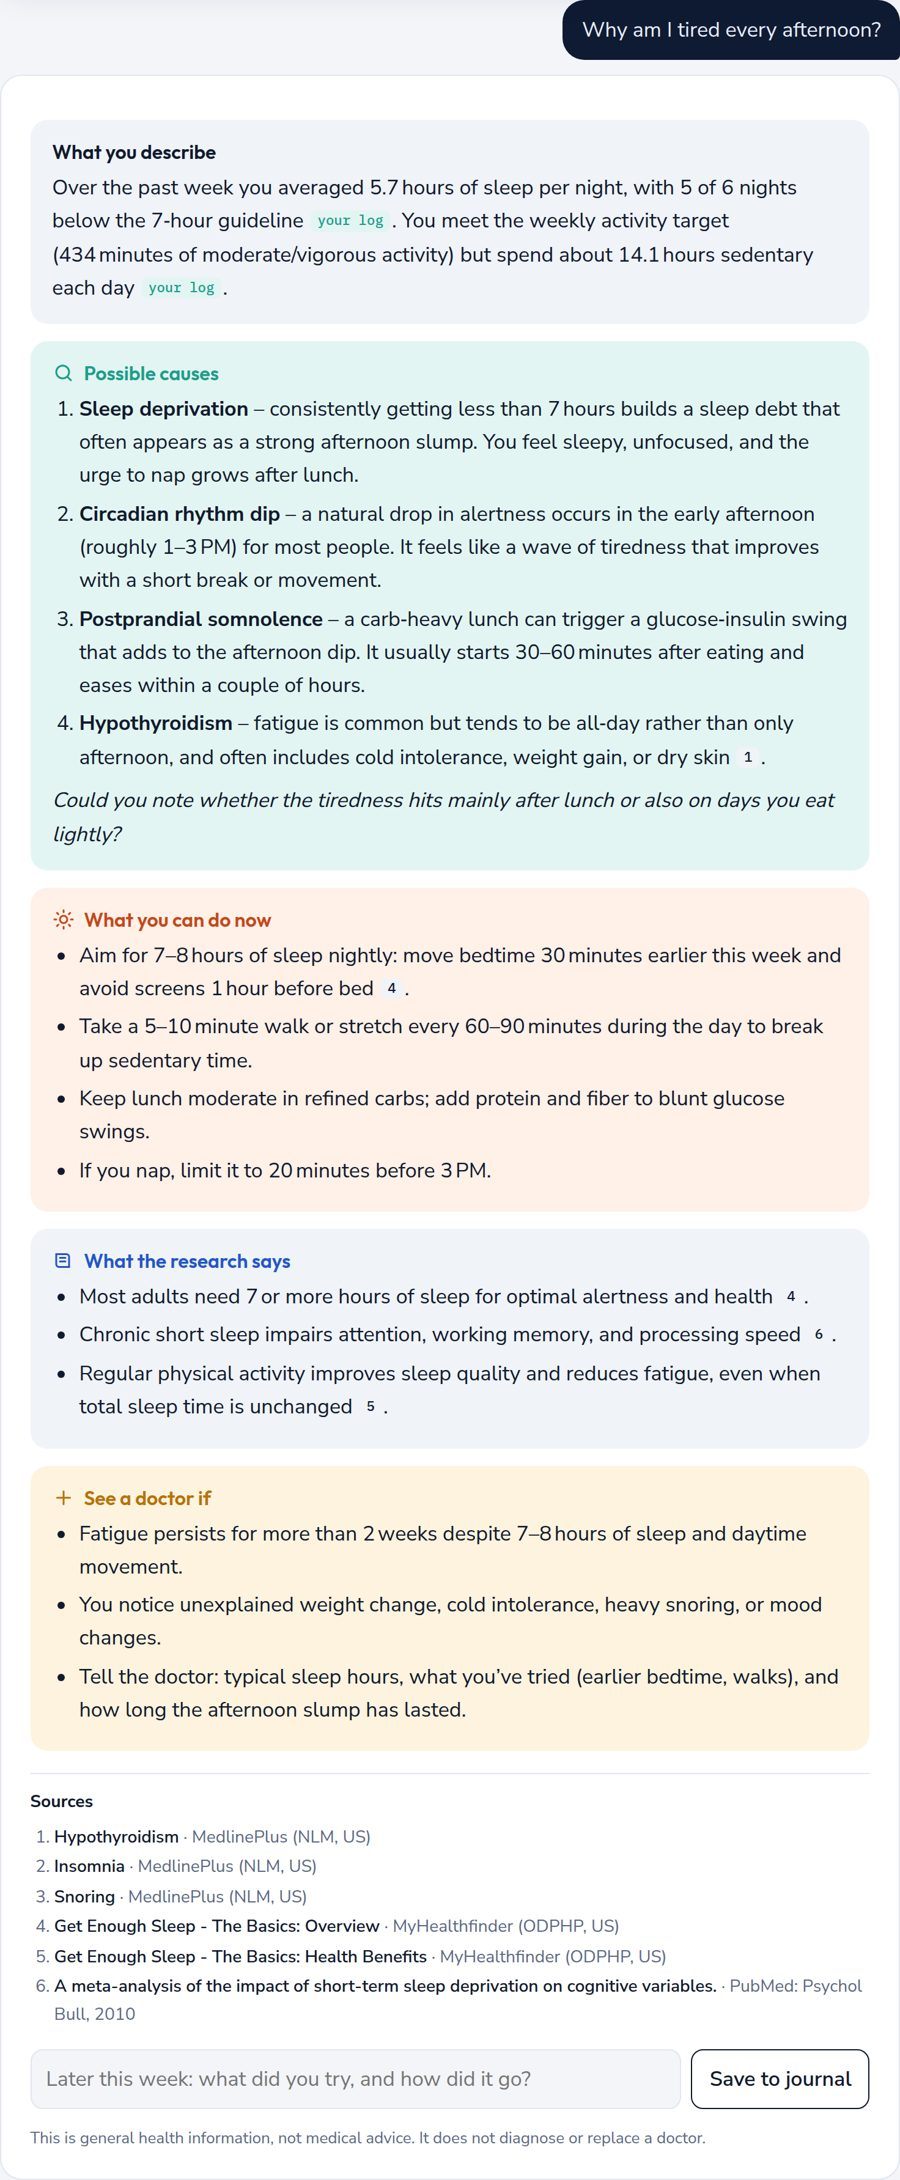
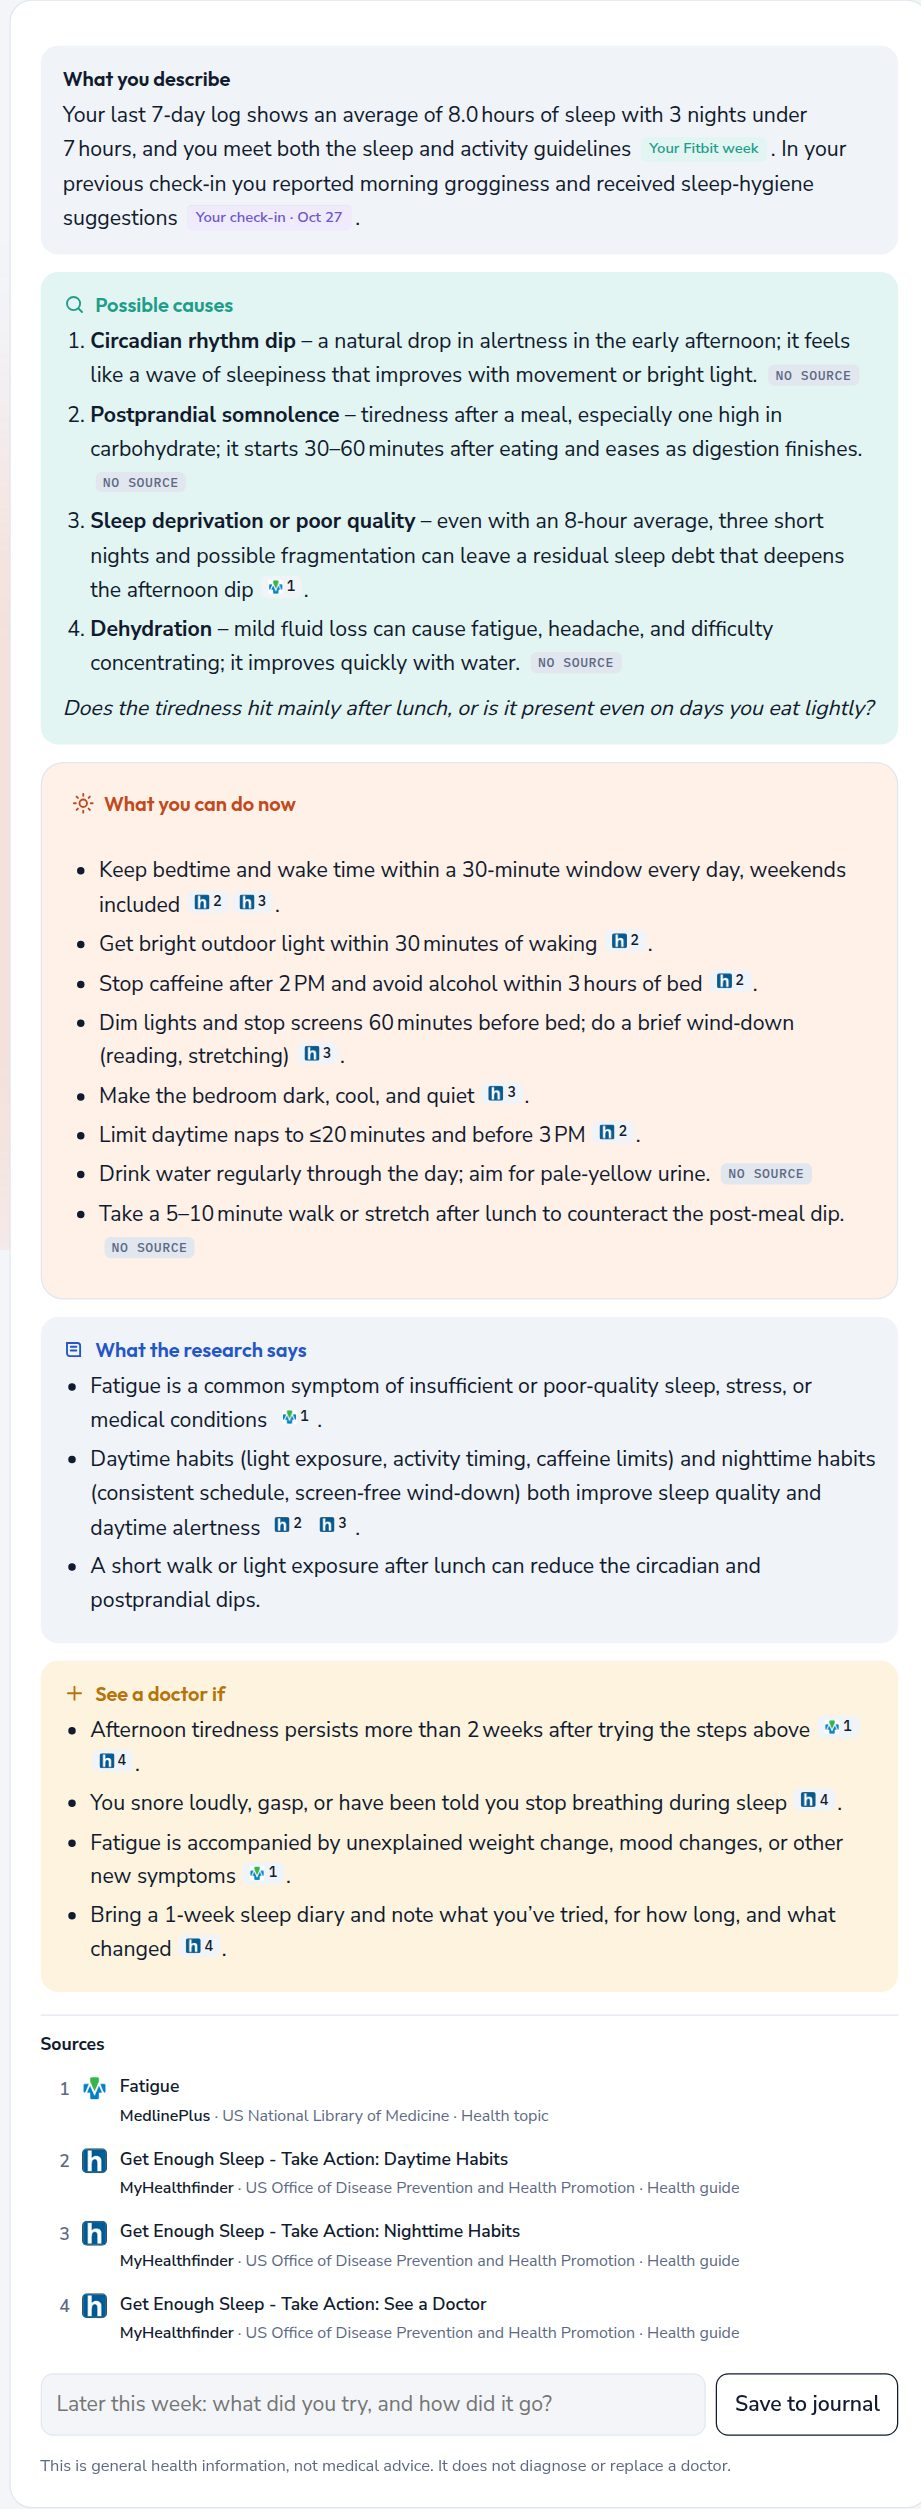
Plain wording in Show your work; project page: new screenshots, line check step, deployed

Changed region(s): [[0.0, 0.0, 1.0, 0.9982], [0.9022, 0.5615, 0.9333, 0.5927]]

diff --git a/web/index.html b/web/index.html
@@ -331,7 +331,7 @@ footer{border-top:1px solid var(--line);color:var(--muted);font-size:.85rem;padd
   <div class="wrap week" data-page="checkin">
     <div>
       <h1 class="hello" id="hello">Here's your week.</h1>
-      <p class="sub" id="range">Loading your log…</p>
+      <p class="sub" id="range">Loading your week…</p>
       <div class="tiles" id="tiles"></div>
     </div>
     <div class="chart">
@@ -373,10 +373,10 @@ footer{border-top:1px solid var(--line);color:var(--muted);font-size:.85rem;padd
       <ol class="steps" id="steps">
         <li class="step wait" tabindex="0" role="button" aria-expanded="false"><span class="dot"></span><div><span class="by">Safety</span><b>Danger-sign check</b><small>Chest pain, stroke signs or self-harm skip advice and go straight to emergency help. This check is plain rules, not AI, so it runs first and can't be talked out of it.</small></div></li>
         <li class="step wait" tabindex="0" role="button" aria-expanded="false"><span class="dot"></span><div><span class="by l">Nightshift</span><b>List possible causes</b><small>A small Nemotron model turns your words into medical terms to look up, and spots any remedy or product you name. These are search terms, not a diagnosis.</small></div></li>
-        <li class="step wait" tabindex="0" role="button" aria-expanded="false"><span class="dot"></span><div><span class="by z">Zetaris</span><b>Search the health library and your log</b><small>SQL through the Zetaris Lightning API finds the closest of 1,016 MedlinePlus topics, plus herb and supplement facts from NCCIH. If the question is about sleep or activity, it also reads your last 7 days of Fitbit data.</small></div></li>
+        <li class="step wait" tabindex="0" role="button" aria-expanded="false"><span class="dot"></span><div><span class="by z">Zetaris</span><b>Search trusted health pages and your Fitbit week</b><small>SQL through the Zetaris Lightning API finds the closest of 1,016 MedlinePlus topics, plus herb and supplement facts from NCCIH. If the question is about sleep or activity, it also reads your last 7 days of Fitbit data.</small></div></li>
         <li class="step wait" tabindex="0" role="button" aria-expanded="false"><span class="dot"></span><div><span class="by p">PubMed</span><b>Find the research</b><small>PubMed is searched live for a recent systematic review on each possible cause. Case reports are skipped, and papers far off your question are dropped.</small></div></li>
         <li class="step wait" tabindex="0" role="button" aria-expanded="false"><span class="dot"></span><div><span class="by m">Meterless H-MEM</span><b>Recall past check-ins</b><small>Meterless H-MEM recalls your earlier check-ins and notes that match this question by meaning. Each memory has a source, a confidence score and the time it was learned.</small></div></li>
-        <li class="step wait" tabindex="0" role="button" aria-expanded="false"><span class="dot"></span><div><span class="by l">Nightshift</span><b>Write the answer</b><small>NVIDIA Nemotron, served through Meterless Nightshift, writes the answer from the evidence above only. Every cause and step must cite a source, your log or a memory; an answer that cites nothing is written again.</small></div></li>
+        <li class="step wait" tabindex="0" role="button" aria-expanded="false"><span class="dot"></span><div><span class="by l">Nightshift</span><b>Write the answer</b><small>NVIDIA Nemotron, served through Meterless Nightshift, writes the answer from the evidence above only. Every cause and step must cite a trusted source; your Fitbit week and earlier check-ins show what applies to you. An answer that cites nothing is written again.</small></div></li>
       </ol>
     </section>
   </aside>
@@ -581,7 +581,7 @@ function renderJournal() {
       ${sec("Your answers", e.answers.length ? `<dl>${e.answers.map(a => `${a.ask ? `<dt>${esc(a.ask)}</dt>` : ""}<dd>${esc(a.reply)}</dd>`).join("")}</dl>` : "")}
       ${sec("Possible causes it checked", e.considered.length ? `<div class="tags">${e.considered.map(c => `<span>${esc(c)}</span>`).join("")}</div>` : "")}
       ${sec("What it suggested", e.steps.length ? `<ul class="jsteps">${e.steps.map(st => `<li>${esc(st)}</li>`).join("")}</ul>` : "")}
-      ${e.data ? `<p class="jdata">Your log at the time: ${esc(e.data)}</p>` : ""}
+      ${e.data ? `<p class="jdata">Your Fitbit week at the time: ${esc(e.data)}</p>` : ""}
       ${m.answer ? `<details class="full"><summary>Read the full answer</summary><div class="fullans">${renderOld(m.answer)}</div></details>`
         : ""}
       <div class="jfoot">${conf}<button type="button" data-again="${esc(e.question)}">Ask again</button></div>
@@ -783,10 +783,13 @@ async function answer(card, prep, user) {
   const base = [
     {state:"done", by:"Safety", title:"No danger signs", detail:"Safe to give everyday advice"},
     {state:"done", by:"Nightshift", title:`${prep.hypotheses.length} possible causes to check`, detail:`${esc(prep.hypotheses.join(" · ") || "none")}${(prep.remedies || []).length ? `<br>Remedies asked about: ${esc(prep.remedies.join(" · "))}` : ""}<br>${tm.hypotheses ?? "?"} s · search terms, not a diagnosis`},
-    {state:"done", by:"Zetaris", title:`${lib.length} library section${lib.length === 1 ? "" : "s"}${s ? " + your log" : ""}`, detail:`${esc(lib.map(x => x.title).join(" · ") || "No close library match")}<br><span style="font-size:.8rem">MedlinePlus topics and NCCIH herb and supplement pages</span>${s ? `<br>Your log for ${fmt(s.from)} to ${fmt(s.to)}` : ""}`,
+    {state:"done", by:"Zetaris", title:`${lib.length} trusted health page${lib.length === 1 ? "" : "s"}${s ? " + your Fitbit week" : ""}`, detail:`${esc(lib.map(x => x.title).join(" · ") || "No close library match")}<br><span style="font-size:.8rem">MedlinePlus, MyHealthfinder and NCCIH</span>${s ? `<br>Your Fitbit week, ${fmt(s.from)} to ${fmt(s.to)}` : ""}`,
      more:`<details><summary>See the SQL</summary>${prep.sql.map(q => `<pre>${esc(q)}</pre>`).join("")}</details>`},
     {state:"done", by:"PubMed", title:`${papers.length} review${papers.length === 1 ? "" : "s"} found live`, detail: papers.map(p => esc(p.about || "") + ": " + esc(p.title.slice(0, 60)) + "…").join("<br>") || "No reviews found"},
-    {state:"done", by:"Meterless H-MEM", title: prep.past.length ? `${prep.past.length} past check-in${prep.past.length > 1 ? "s" : ""} recalled` : "First check-in on this", detail: prep.past.length ? prep.past.map(m => esc(m.content.replace(/^Check-in: |^User reported: /, "").slice(0, 80)) + "…").join("<br>") : "Nothing to follow up on yet"},
+    {state:"done", by:"Meterless H-MEM", title: prep.past.length ? `${prep.past.length} past check-in${prep.past.length > 1 ? "s" : ""} recalled` : "First check-in on this", detail: prep.past.length ? prep.past.map(m => {
+      const q = m.content.match(/asked "([^"\n]*)/)?.[1], d = new Date(m.learnedAt).toLocaleDateString("en", {month:"short", day:"numeric"});
+      return esc(q ? `You asked "${q.slice(0, 70)}" (${d})` : `You noted "${m.content.replace(/^User reported: /, "").slice(0, 70)}" (${d})`);
+    }).join("<br>") : "Nothing to follow up on yet"},
   ];
   // The NVIDIA cloud writes the answer only when Nightshift is offline (see agent/llm.py).
   const writer = /^NVIDIA/.test(prep.via || "") ? "NVIDIA" : "Nightshift", t0 = Date.now();
@@ -817,7 +820,7 @@ async function answer(card, prep, user) {
   clearInterval(tick);
   if (!done) throw new Error("the model stopped before finishing");
   steps([...base,
-    {state:"done", by:writer, title:`Answer written in ${Math.round((Date.now() - t0) / 1000)} s`, detail:"Every claim cites a source, your log or a memory"},
+    {state:"done", by:writer, title:`Answer written in ${Math.round((Date.now() - t0) / 1000)} s`, detail:"Every point cites a trusted source, your Fitbit week or an earlier check-in"},
     {state:"done", by:"Meterless H-MEM", title:`Saved as ${esc(done.saved.id)}`, detail:"Next week's check-in will follow up on this"},
     {state:"done", by:"Check-In", title:"Why it chose what it did", detail:(done.decisions || []).map(esc).join("<br>") || "No sources dropped, nothing rewritten"}]);
   card.innerHTML = render(done.text) + (done.cited?.length ? foot(done.cited) : "") +

diff --git a/site/index.html b/site/index.html
@@ -161,7 +161,7 @@ footer .wrap{display:flex;flex-wrap:wrap;gap:12px;justify-content:space-between}
         </div>
         <p class="live"><i></i><span class="live-text">Checking whether the live demo is up…</span></p>
       </div>
-      <img class="hero-shot" src="img/home.jpg" width="1600" height="1000" alt="Check-In home screen: a week of real Fitbit sleep data read through Zetaris, with a question box below.">
+      <img class="hero-shot" src="img/home.jpg" width="1600" height="1000" alt="Check-In home screen: a week of real Fitbit sleep data read through Zetaris, a greeting, and ideas to talk about from that week.">
     </div>
 
     <div class="strip">
@@ -193,16 +193,17 @@ footer .wrap{display:flex;flex-wrap:wrap;gap:12px;justify-content:space-between}
 <section class="pipe" id="how">
   <div class="wrap">
     <p class="kicker">How it works</p>
-    <h2 style="margin-top:12px">Eight steps, all shown to the user</h2>
+    <h2 style="margin-top:12px">Nine steps, all shown to the user</h2>
     <p class="lead" style="max-width:40em">The app shows each step as it happens: the safety check, what it looked up, what it remembered and which AI model wrote the answer. Nothing is hidden.</p>
     <ol class="steps">
       <li><h3>Danger signs first</h3><p>Chest pain, stroke signs, self-harm and similar go straight to emergency help, with no model call.</p><span class="tag s">Safety filter</span></li>
       <li><h3>Questions first</h3><p>When the safe answer depends on a missing detail, up to three tap-to-answer questions come first.</p><span class="tag n">Nemotron</span></li>
       <li><h3>Possible causes</h3><p>Your words become up to four standard condition names. They are search terms, not a diagnosis.</p><span class="tag n">Nemotron Bolt</span></li>
-      <li><h3>Library + your log</h3><p>1,016 MedlinePlus topics, NIH herb pages and your last week of sleep and activity.</p><span class="tag z">Zetaris</span></li>
+      <li><h3>Trusted pages + your week</h3><p>1,016 MedlinePlus topics, MyHealthfinder action guides, NIH herb pages and your Fitbit week.</p><span class="tag z">Zetaris</span></li>
       <li><h3>Live research</h3><p>PubMed is searched at question time for a recent systematic review on each cause.</p><span class="tag p">PubMed</span></li>
       <li><h3>Recall past check-ins</h3><p>What you asked and tried before, and when, so the advice builds on it.</p><span class="tag m">Meterless H-MEM</span></li>
       <li><h3>Answer with sources</h3><p>Possible causes, what to do now, what the research says and when to see a doctor. Each point has a small tag you can tap to see where it came from: a health page, your own sleep data or a past check-in.</p><span class="tag n">Nightshift + Nemotron</span></li>
+      <li><h3>Check every line</h3><p>Lines without a source are matched by meaning to a source sentence, or labelled "no source". Every decision is logged.</p><span class="tag s">Check-In</span></li>
       <li><h3>Remember it</h3><p>The check-in is saved with its sources, so next week's check-in can ask how it went.</p><span class="tag m">Meterless H-MEM</span></li>
     </ol>
   </div>
@@ -248,11 +249,11 @@ footer .wrap{display:flex;flex-wrap:wrap;gap:12px;justify-content:space-between}
     <p class="lead" style="max-width:40em">Person 0366 from the public Fitbit dataset asks "Why am I tired every afternoon?" after a week of 5.7 hours of sleep. Answered by Nemotron 3 Ultra in 38 seconds end to end.</p>
     <div class="shots">
       <figure>
-        <div class="tall"><img src="img/answer-card.jpg" width="900" height="2180" alt="The full answer: what you describe, four possible causes, what you can do now, what the research says, see a doctor if, and six numbered sources."></div>
+        <div class="tall"><img src="img/answer-card.jpg" width="921" height="2509" alt="The full answer: what you describe, four possible causes, what you can do now, what the research says, see a doctor if, and six numbered sources."></div>
         <figcaption>The answer cites the person's own log and six sources. Scroll inside the image to read all of it.</figcaption>
       </figure>
       <figure>
-        <div class="tall"><img src="img/evidence.jpg" width="640" height="1687" alt="The Show your work panel: safety check, possible causes, Zetaris library and log, PubMed review, H-MEM recall, answer written, saved as mem-1."></div>
+        <div class="tall"><img src="img/evidence.jpg" width="450" height="1591" alt="The Show your work panel: safety check, possible causes, Zetaris library and log, PubMed review, H-MEM recall, answer written, saved, and why it chose what it did."></div>
         <figcaption>"Show your work": every step the agent took for this answer.</figcaption>
       </figure>
     </div>

diff --git a/agent/checkin.py b/agent/checkin.py
@@ -411,8 +411,8 @@ def prepare(question, user_id, as_of=None, clarified=False, said=None):
     pool.shutdown(wait=False)
     topics = topics_for(question)
     summary = user_summary(user_id, as_of=as_of) if is_personal(question) else None
-    decisions.append("Used your sleep and activity log: the question is about what it measures"
-                     if summary else "Left your log out: the question isn't about sleep, "
+    decisions.append("Used your Fitbit week: the question is about sleep or activity"
+                     if summary else "Left your Fitbit week out: the question isn't about sleep, "
                      "activity or weight")
     # Exact condition names first; meaning-based search only fills the gaps, because on its
     # own it can rank Diphtheria above Eczema for "red, dry skin in the folds of my arms".
